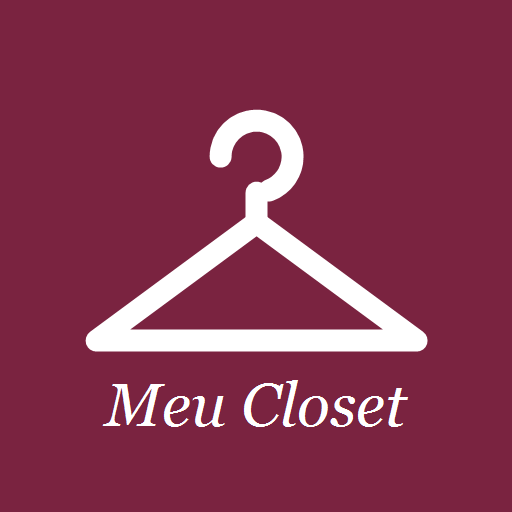
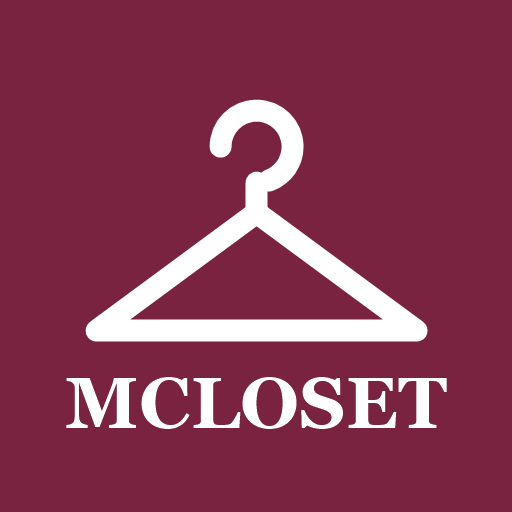
Add files via upload

Changed region(s): [[0.1562, 0.1875, 0.8438, 0.6875], [0.125, 0.7188, 0.875, 0.8438]]

diff --git a/js/views/backup.js b/js/views/backup.js
@@ -62,7 +62,7 @@ export async function exportBackup() {
     for (const s of LIST_STORES) data[s] = S[s];
     const entries = [
       { name: 'data.json', data: JSON.stringify(data) },
-      { name: 'LEIA-ME.txt', data: 'Backup do app Meu Closet.\r\nPara restaurar: abra o app > Hub pessoal > Backup e dados > Importar backup, e escolha este arquivo .zip.\r\nA pasta photos tem todas as fotos em JPG. O arquivo pecas.csv abre no Excel.\r\n' },
+      { name: 'LEIA-ME.txt', data: 'Backup do app MCLOSET.\r\nPara restaurar: abra o app > Hub pessoal > Backup e dados > Importar backup, e escolha este arquivo .zip.\r\nA pasta photos tem todas as fotos em JPG. O arquivo pecas.csv abre no Excel.\r\n' },
       { name: 'pecas.csv', data: csv() },
     ];
     const keys = await db.getAllKeys('photos');
@@ -76,7 +76,7 @@ export async function exportBackup() {
     const zip = await makeZip(entries, (n, t) => { if (n % 25 === 0) set(`Montando arquivo ${n}/${t}…`); });
     set(`Pronto: ${(zip.size / 1048576).toFixed(1)} MB`);
     closeSheet();
-    const r = await deliverFile(zip, `meu-closet-backup-${todayStr()}.zip`);
+    const r = await deliverFile(zip, `mcloset-backup-${todayStr()}.zip`);
     if (r !== 'cancel') {
       S.settings.lastBackup = new Date().toISOString();
       await saveSettings();
@@ -104,7 +104,7 @@ function csv() {
 }
 
 async function exportCSV() {
-  await deliverFile(new Blob([csv()], { type: 'text/csv;charset=utf-8' }), `meu-closet-pecas-${todayStr()}.csv`);
+  await deliverFile(new Blob([csv()], { type: 'text/csv;charset=utf-8' }), `mcloset-pecas-${todayStr()}.csv`);
 }
 
 // Recebe um closet/look que outra pessoa compartilhou (arquivo com share.json)
@@ -138,7 +138,7 @@ export async function importBackup(picked) {
     zip = await readZip(file);
     if (zip.has('share.json')) return receiveShare(zip);
     data = JSON.parse(await zip.text('data.json'));
-    if (data.app !== 'meu-closet') throw new Error('Este arquivo não é um backup do Meu Closet.');
+    if (data.app !== 'meu-closet') throw new Error('Este arquivo não é um backup do MCLOSET.');
   } catch (err) { return alert('Não consegui ler o backup: ' + err.message); }
   const n = (data.items || []).length;
   const hasData = S.items.length > 0;
@@ -193,7 +193,7 @@ export function renderCompartilhar(main) {
   main.innerHTML = `
     ${header('Compartilhar closets', { back: '#/hub' })}
     <div class="pad">
-      <p class="small">Se uma amiga, sua mãe ou sua esposa também usa o Meu Closet, vocês podem trocar closets e looks. Cada closet recebido aparece como uma pessoa no seu app, e dá para combinar looks em grupo com ela em <b>Sair juntos</b>.</p>
+      <p class="small">Se uma amiga, sua mãe ou sua esposa também usa o MCLOSET, vocês podem trocar closets e looks. Cada closet recebido aparece como uma pessoa no seu app, e dá para combinar looks em grupo com ela em <b>Sair juntos</b>.</p>
 
       <h3 class="sec">Enviar</h3>
       <div class="menu">${own.map(p => `<button class="menu-item" data-act="send" data-id="${p.id}">${avatar(p)}<span>Enviar o closet de ${esc(p.name)}<small>${S.items.filter(i => i.profileId === p.id).length} peças + looks (sem preços)</small></span>${icon('share')}</button>`).join('')}</div>

diff --git a/admin.html b/admin.html
@@ -3,7 +3,7 @@
 <head>
   <meta charset="utf-8">
   <meta name="viewport" content="width=device-width, initial-scale=1, viewport-fit=cover">
-  <title>Painel do Meu Closet</title>
+  <title>Painel do MCLOSET</title>
   <meta name="robots" content="noindex">
   <link rel="icon" type="image/png" href="icons/icon-192.png">
   <link rel="stylesheet" href="css/app.css">
@@ -25,7 +25,7 @@
 </head>
 <body>
 <main>
-  <header class="top"><div class="top-title"><h1>Painel do Meu Closet</h1><div class="top-sub">só para a dona do app</div></div></header>
+  <header class="top"><div class="top-title"><h1>Painel do MCLOSET</h1><div class="top-sub">só para a dona do app</div></div></header>
   <div id="app"><p class="muted">Carregando…</p></div>
 </main>
 <div id="toast" class="toast"></div>
@@ -41,7 +41,9 @@ const today = () => { const d = new Date(); return `${d.getFullYear()}-${String(
 const gh = (() => {
   const m = location.hostname.match(/^([^.]+)\.github\.io$/);
   const user = m ? m[1] : (localStorage.getItem('gh-user') || '');
-  const repo = m ? (location.pathname.split('/').filter(Boolean)[0] || `${user}.github.io`) : (localStorage.getItem('gh-repo') || 'meu-closet');
+  // em usuario.github.io/meu-closet/ o repositório é "meu-closet"; em usuario.github.io/ (sem pasta) é "usuario.github.io"
+  const first = location.pathname.split('/').filter(Boolean)[0] || '';
+  const repo = m ? (first && !first.includes('.') ? first : `${user}.github.io`) : (localStorage.getItem('gh-repo') || 'meu-closet');
   return { user, repo };
 })();
 const repoUrl = () => gh.user ? `https://github.com/${gh.user}/${gh.repo}` : '';
@@ -139,7 +141,7 @@ function sync() {
 }
 document.addEventListener('input', sync);
 document.addEventListener('change', e => {
-  if (e.target.id === 'ativo') { sync(); data.ativo = e.target.checked; if (!data.ativo && !data.mensagemDesligado) data.mensagemDesligado = 'O Meu Closet está em manutenção. Volta logo!'; draw(); }
+  if (e.target.id === 'ativo') { sync(); data.ativo = e.target.checked; if (!data.ativo && !data.mensagemDesligado) data.mensagemDesligado = 'O MCLOSET está em manutenção. Volta logo!'; draw(); }
   if (e.target.id === 'ghu' || e.target.id === 'ghr') draw();
 });
 document.addEventListener('click', async e => {

diff --git a/js/views/hub.js b/js/views/hub.js
@@ -37,7 +37,7 @@ export function render(main) {
         ${mi('#/guia', 'camera', 'Como preparar as fotos', 'tamanho ideal e prompt para a IA')}
       </div>
       <button class="menu-item" data-act="about">${icon('info')}<span>Sobre e privacidade<small>versão ${CONFIG.appVersion}${CONFIG.goatcounter ? ' · estatística anônima ' + (S.settings.noStats ? 'desligada' : 'ligada') : ''}</small></span>${icon('chev')}</button>
-      <p class="foot">Meu Closet · seus dados ficam só neste aparelho. Faça backup com frequência.</p>
+      <p class="foot">MCLOSET · seus dados ficam só neste aparelho. Faça backup com frequência.</p>
     </div>`;
   hydrate(main);
   main.oninput = main.onchange = null;
@@ -383,7 +383,7 @@ export function renderGuia(main) {
 
 function aboutSheet() {
   const draw = () => `
-    <p><b>Meu Closet</b> — versão ${CONFIG.appVersion}</p>
+    <p><b>MCLOSET</b> — versão ${CONFIG.appVersion}</p>
     <p class="small">Suas fotos, peças, looks e calendário ficam <b>só neste aparelho</b>. Nada disso é enviado para a internet. Para levar para outro aparelho, use o backup.</p>
     ${CONFIG.goatcounter ? `<p class="small">Para saber quantas pessoas usam o app, ele envia um sinal <b>anônimo</b> quando é aberto (sem nome, sem e-mail, sem cookies e sem nada do seu closet).</p>
     <label class="ck"><input type="checkbox" id="stats" ${S.settings.noStats ? '' : 'checked'}><span>Permitir estatística anônima de uso</span></label>` : '<p class="small muted">Este app não envia nenhuma estatística.</p>'}

diff --git a/js/views/looks.js b/js/views/looks.js
@@ -121,7 +121,7 @@ export function renderDetail(main, params) {
     else if (act === 'share') {
       const how = await choose('Compartilhar look', [
         { name: 'Imagem do look', desc: 'foto montada para mandar no WhatsApp/Instagram', icon: 'image', value: 'img' },
-        { name: 'Arquivo do look', desc: 'para outra pessoa abrir no Meu Closet dela', icon: 'file', value: 'file' },
+        { name: 'Arquivo do look', desc: 'para outra pessoa abrir no MCLOSET dela', icon: 'file', value: 'file' },
       ]);
       if (how === 'img') shareLook(l);
       else if (how === 'file') { toast('Preparando o arquivo…'); shareLookFile(l.id); }
@@ -177,7 +177,7 @@ async function shareLook(l) {
     const r = Math.min((cell - 20) / bmp.width, (cell - 20) / bmp.height);
     ctx.drawImage(bmp, x + (cell - bmp.width * r) / 2, y + (cell - bmp.height * r) / 2, bmp.width * r, bmp.height * r);
   }
-  ctx.fillStyle = '#9a9a9a'; ctx.font = '28px Georgia, serif'; ctx.fillText('Meu Closet', pad, H - 40);
+  ctx.fillStyle = '#9a9a9a'; ctx.font = '28px Georgia, serif'; ctx.fillText('MCLOSET', pad, H - 40);
   const blob = await new Promise(r => c.toBlob(r, 'image/jpeg', 0.9));
   await deliverFile(blob, l.name.replace(/[^\w\- ]+/g, '').trim() + '.jpg');
 }

diff --git a/css/app.css b/css/app.css
@@ -42,7 +42,7 @@ code { background: var(--soft); padding: 1px 5px; border-radius: 5px; font-size:
 .top { display: flex; align-items: center; gap: 8px; padding: 14px 0 10px; min-height: 64px; position: sticky; top: 0; background: rgba(255,255,255,.94); backdrop-filter: blur(10px); -webkit-backdrop-filter: blur(10px); z-index: 20; margin: 0 -16px; padding-left: 16px; padding-right: 16px; padding-top: calc(10px + var(--safe-t)); }
 .top-title { flex: 1; min-width: 0; }
 .top h1 { font: italic 400 27px/1.1 var(--serif); margin: 0; white-space: nowrap; overflow: hidden; text-overflow: ellipsis; color: #444; }
-.top h1.logo { font-size: 30px; font-weight: 600; letter-spacing: -.5px; color: #555; }
+.top h1.logo { font: 600 25px/1.1 var(--serif); font-style: normal; letter-spacing: 4px; color: #4a4a4a; }
 .top-sub { font-size: 12px; color: var(--muted); white-space: nowrap; overflow: hidden; text-overflow: ellipsis; }
 .top-right { display: flex; align-items: center; gap: 2px; }
 .icon-btn { width: 40px; height: 40px; display: inline-grid; place-items: center; border-radius: 50%; color: #777; position: relative; flex: none; }

diff --git a/index.html b/index.html
@@ -3,14 +3,14 @@
 <head>
   <meta charset="utf-8">
   <meta name="viewport" content="width=device-width, initial-scale=1, viewport-fit=cover">
-  <title>Meu Closet</title>
+  <title>MCLOSET</title>
   <meta name="description" content="Catálogo pessoal das suas roupas, looks e planejamento — funciona offline.">
   <meta name="theme-color" content="#ffffff">
   <meta name="color-scheme" content="light">
   <meta name="apple-mobile-web-app-capable" content="yes">
   <meta name="mobile-web-app-capable" content="yes">
   <meta name="apple-mobile-web-app-status-bar-style" content="default">
-  <meta name="apple-mobile-web-app-title" content="Meu Closet">
+  <meta name="apple-mobile-web-app-title" content="MCLOSET">
   <link rel="manifest" href="manifest.webmanifest">
   <link rel="icon" type="image/png" href="icons/icon-192.png">
   <link rel="apple-touch-icon" href="icons/apple-touch-icon.png">

diff --git a/js/share.js b/js/share.js
@@ -1,4 +1,4 @@
-// Compartilhar closet ou look com outra pessoa que também usa o Meu Closet.
+// Compartilhar closet ou look com outra pessoa que também usa o MCLOSET.
 // O arquivo .zip leva só as peças, looks e fotos escolhidos — nada do resto do seu app.
 import * as db from './db.js';
 import { S, save, profile, item, look, lookItems, deleteItem, deleteLook, clearPhotoCache, invalidate } from './store.js';
@@ -24,7 +24,7 @@ async function pack(scope, profs, items, looks, title) {
     if (p.thumb) entries.push({ name: `photos/${id}.thumb.jpg`, data: p.thumb });
   }
   const zip = await makeZip(entries);
-  return deliverFile(zip, `meu-closet-${slug(title)}-${todayStr()}.zip`);
+  return deliverFile(zip, `mcloset-${slug(title)}-${todayStr()}.zip`);
 }
 
 // opts.withPrices: incluir preços (por padrão não vão)

diff --git a/js/views/armario.js b/js/views/armario.js
@@ -35,7 +35,7 @@ export function render(main) {
   const view = S.settings.view || 'grid';
   const extra = ADV.filter(k => F[k]).length + (F.status !== 'ativas' ? 1 : 0) + (F.sort !== 'recentes' ? 1 : 0);
   main.innerHTML = `
-    ${header('Meu Closet', { logo: true, right: `<a class="icon-btn" href="#/painel" aria-label="Painel">${icon('chart')}</a>`, sub: S.profiles.length > 1 ? 'Closet de ' + esc(p.name) + (p.sharedFrom ? ' (compartilhado)' : '') : '' })}
+    ${header('MCLOSET', { logo: true, right: `<a class="icon-btn" href="#/painel" aria-label="Painel">${icon('chart')}</a>`, sub: S.profiles.length > 1 ? 'Closet de ' + esc(p.name) + (p.sharedFrom ? ' (compartilhado)' : '') : '' })}
     ${backupBanner()}
     ${pendingBanner()}
     ${S.items.length ? todayCardHTML() : ''}

diff --git a/js/describe.js b/js/describe.js
@@ -59,7 +59,7 @@ export function closetPrompt(items, { purpose = 'looks', usage = true, price = f
   }[purpose];
   const head = [
     title || 'MEU GUARDA-ROUPA',
-    `Gerado pelo app Meu Closet em ${fmtDate(new Date().toISOString().slice(0, 10))} — ${list.length} peça${list.length === 1 ? '' : 's'}.`,
+    `Gerado pelo app MCLOSET em ${fmtDate(new Date().toISOString().slice(0, 10))} — ${list.length} peça${list.length === 1 ? '' : 's'}.`,
     intro,
     people.length ? `Pessoas:\n${peopleTxt}` : '',
     'As cores seguem uma lista fixa de nomes de moda com o código hex, e as cartelas seguem o método sazonal expandido de 12 estações.',

diff --git a/js/remote.js b/js/remote.js
@@ -98,7 +98,7 @@ function showOff(msg) {
   el.innerHTML = `<div class="off-box">
       ${icon('info')}
       <h2 class="serif">App fora do ar</h2>
-      <p>${esc(msg || 'O Meu Closet está temporariamente indisponível.')}</p>
+      <p>${esc(msg || 'O MCLOSET está temporariamente indisponível.')}</p>
       <p class="small muted">Suas fotos e peças continuam guardadas neste aparelho. Faça uma cópia de segurança para não perder nada.</p>
       <button class="btn block" data-off="backup">${icon('download')} Fazer backup dos meus dados</button>
     </div>`;

diff --git a/js/config.js b/js/config.js
@@ -1,7 +1,7 @@
 // Configurações do app — é o único arquivo que você precisa mexer para ligar o contador.
 export const CONFIG = {
   // Versão do app. Aumente junto com VERSION no sw.js a cada atualização publicada.
-  appVersion: 8,
+  appVersion: 9,
 
   // Código do GoatCounter (contador anônimo de uso). Ex.: se o seu painel é
   // https://meucloset.goatcounter.com, escreva 'meucloset'. Vazio = contador desligado.

diff --git a/sw.js b/sw.js
@@ -1,6 +1,6 @@
 // Guarda o app no aparelho para funcionar sem internet.
 // Ao publicar uma nova versão, aumente o número abaixo.
-const VERSION = 'meu-closet-v8';
+const VERSION = 'meu-closet-v9';
 const FILES = [
   './', './index.html', './manifest.webmanifest', './css/app.css',
   './js/app.js', './js/db.js', './js/store.js', './js/ui.js', './js/util.js', './js/catalog.js',
